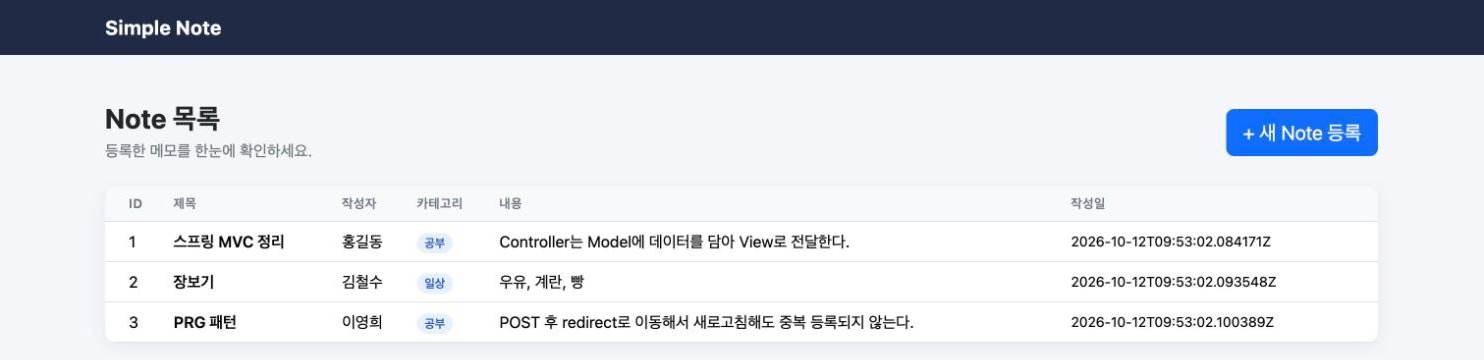
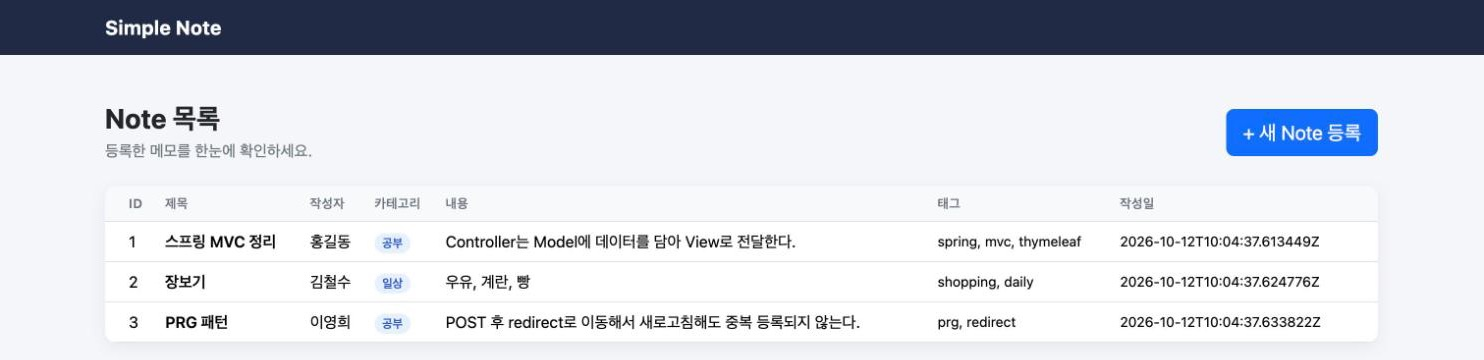
엔티티에 태그 추가

diff --git a/src/main/resources/templates/notes/list.html b/src/main/resources/templates/notes/list.html
@@ -34,6 +34,7 @@
                     <th>작성자</th>
                     <th>카테고리</th>
                     <th>내용</th>
+                    <th>태그</th>
                     <th class="pe-4">작성일</th>
                 </tr>
                 </thead>
@@ -44,6 +45,7 @@
                     <td th:text="${note.author}"></td>
                     <td><span class="badge rounded-pill category-badge" th:text="${note.category}"></span></td>
                     <td class="note-content" th:text="${note.content}"></td>
+                    <td class="note-tags" th:text="${note.tags}"></td>
                     <td class="pe-4 note-date" th:text="${note.createdAt}"></td>
                 </tr>
                 </tbody>
@@ -59,7 +61,8 @@
                     <h2 class="h5 mb-0" th:text="${note.title}"></h2>
                     <span class="badge rounded-pill category-badge" th:text="${note.category}"></span>
                 </div>
-                <p class="note-body mb-3" th:text="${note.content}"></p>
+                <p class="note-body mb-2" th:text="${note.content}"></p>
+                <p class="note-tags mb-3" th:text="${note.tags}"></p>
                 <div class="d-flex justify-content-between text-muted small">
                     <span>#<span th:text="${note.id}"></span> · <span th:text="${note.author}"></span></span>
                     <span th:text="${note.createdAt}"></span>

diff --git a/src/main/resources/templates/notes/form.html b/src/main/resources/templates/notes/form.html
@@ -36,9 +36,13 @@
                             <input class="form-control form-control-lg" type="text" id="category" name="category">
                         </div>
                     </div>
-                    <div class="mb-4">
+                    <div class="mb-3">
                         <label class="form-label" for="content">내용</label>
                         <input class="form-control form-control-lg" type="text" id="content" name="content">
+                    </div>
+                    <div class="mb-4">
+                        <label class="form-label" for="tags">태그 (쉼표로 구분)</label>
+                        <input class="form-control form-control-lg" type="text" id="tags" name="tags">
                     </div>
                     <div class="d-grid gap-2 d-sm-flex justify-content-sm-end">
                         <a class="btn btn-outline-secondary btn-lg order-2 order-sm-1" th:href="@{/notes}">목록으로</a>

diff --git a/src/main/resources/static/css/style.css b/src/main/resources/static/css/style.css
@@ -46,6 +46,12 @@ body {
     word-break: break-word;
 }
 
+.note-tags {
+    color: #4c7df0;
+    font-size: 0.875rem;
+    word-break: break-word;
+}
+
 .note-date {
     white-space: nowrap;
     color: #6c757d;

diff --git a/src/main/java/com/seohamin/simple_note_html/service/NoteService.java b/src/main/java/com/seohamin/simple_note_html/service/NoteService.java
@@ -32,6 +32,7 @@ public class NoteService {
                 noteRequestDto.author(),
                 noteRequestDto.category(),
                 noteRequestDto.content(),
+                noteRequestDto.tags(),
                 null,
                 null
         );
@@ -75,6 +76,7 @@ public class NoteService {
         note.setAuthor(noteRequestDto.author());
         note.setCategory(noteRequestDto.category());
         note.setContent(noteRequestDto.content());
+        note.setTags(noteRequestDto.tags());
 
         return NoteResponseDto.of(noteRepository.save(note));
     }
@@ -101,8 +103,9 @@ public class NoteService {
         if (noteRequestDto.title() == null || noteRequestDto.title().isBlank()
                 || noteRequestDto.author() == null || noteRequestDto.author().isBlank()
                 || noteRequestDto.category() == null || noteRequestDto.category().isBlank()
-                || noteRequestDto.content() == null || noteRequestDto.content().isBlank()) {
-            throw new ResponseStatusException(HttpStatus.BAD_REQUEST, "title, author, category, content must not be blank");
+                || noteRequestDto.content() == null || noteRequestDto.content().isBlank()
+                || noteRequestDto.tags() == null || noteRequestDto.tags().isBlank()) {
+            throw new ResponseStatusException(HttpStatus.BAD_REQUEST, "title, author, category, content, tags must not be blank");
         }
     }
 

diff --git a/src/main/java/com/seohamin/simple_note_html/domain/Note.java b/src/main/java/com/seohamin/simple_note_html/domain/Note.java
@@ -14,6 +14,8 @@ public class Note {
 
     private String content;
 
+    private String tags;
+
     private Instant createdAt;
 
     private Instant updatedAt;
@@ -24,6 +26,7 @@ public class Note {
             final String author,
             final String category,
             final String content,
+            final String tags,
             final Instant createdAt,
             final Instant updatedAt
     ) {
@@ -32,6 +35,7 @@ public class Note {
         this.author = author;
         this.category = category;
         this.content = content;
+        this.tags = tags;
         this.createdAt = createdAt;
         this.updatedAt = updatedAt;
     }
@@ -74,6 +78,14 @@ public class Note {
 
     public void setContent(String content) {
         this.content = content;
+    }
+
+    public String getTags() {
+        return tags;
+    }
+
+    public void setTags(String tags) {
+        this.tags = tags;
     }
 
     public Instant getCreatedAt() {

diff --git a/src/main/java/com/seohamin/simple_note_html/dto/NoteResponseDto.java b/src/main/java/com/seohamin/simple_note_html/dto/NoteResponseDto.java
@@ -10,6 +10,7 @@ public record NoteResponseDto(
         String author,
         String category,
         String content,
+        String tags,
         Instant createdAt,
         Instant updatedAt
 ) {
@@ -21,6 +22,7 @@ public record NoteResponseDto(
                 note.getAuthor(),
                 note.getCategory(),
                 note.getContent(),
+                note.getTags(),
                 note.getCreatedAt(),
                 note.getUpdatedAt()
         );

diff --git a/src/main/java/com/seohamin/simple_note_html/dto/NoteRequestDto.java b/src/main/java/com/seohamin/simple_note_html/dto/NoteRequestDto.java
@@ -4,6 +4,7 @@ public record NoteRequestDto(
         String title,
         String author,
         String category,
-        String content
+        String content,
+        String tags
 ) {
 }

diff --git a/README.md b/README.md
@@ -78,7 +78,7 @@ src/main
 
 **Q4. Form 데이터는 어떻게 Controller로 전달되나요?**
 
-Form의 `input` `name`과 `NoteRequestDto`의 필드명(`title`, `author`, `category`, `content`)이 같으면 Spring이 DTO를 만들어 값을 넣어 줍니다. JSON은 `@RequestBody`, Form 데이터는 `@ModelAttribute`로 받습니다.
+Form의 `input` `name`과 `NoteRequestDto`의 필드명(`title`, `author`, `category`, `content`, `tags`)이 같으면 Spring이 DTO를 만들어 값을 넣어 줍니다. JSON은 `@RequestBody`, Form 데이터는 `@ModelAttribute`로 받습니다.
 
 **Q5. 등록 후 왜 `redirect:`를 사용하나요?**
 
